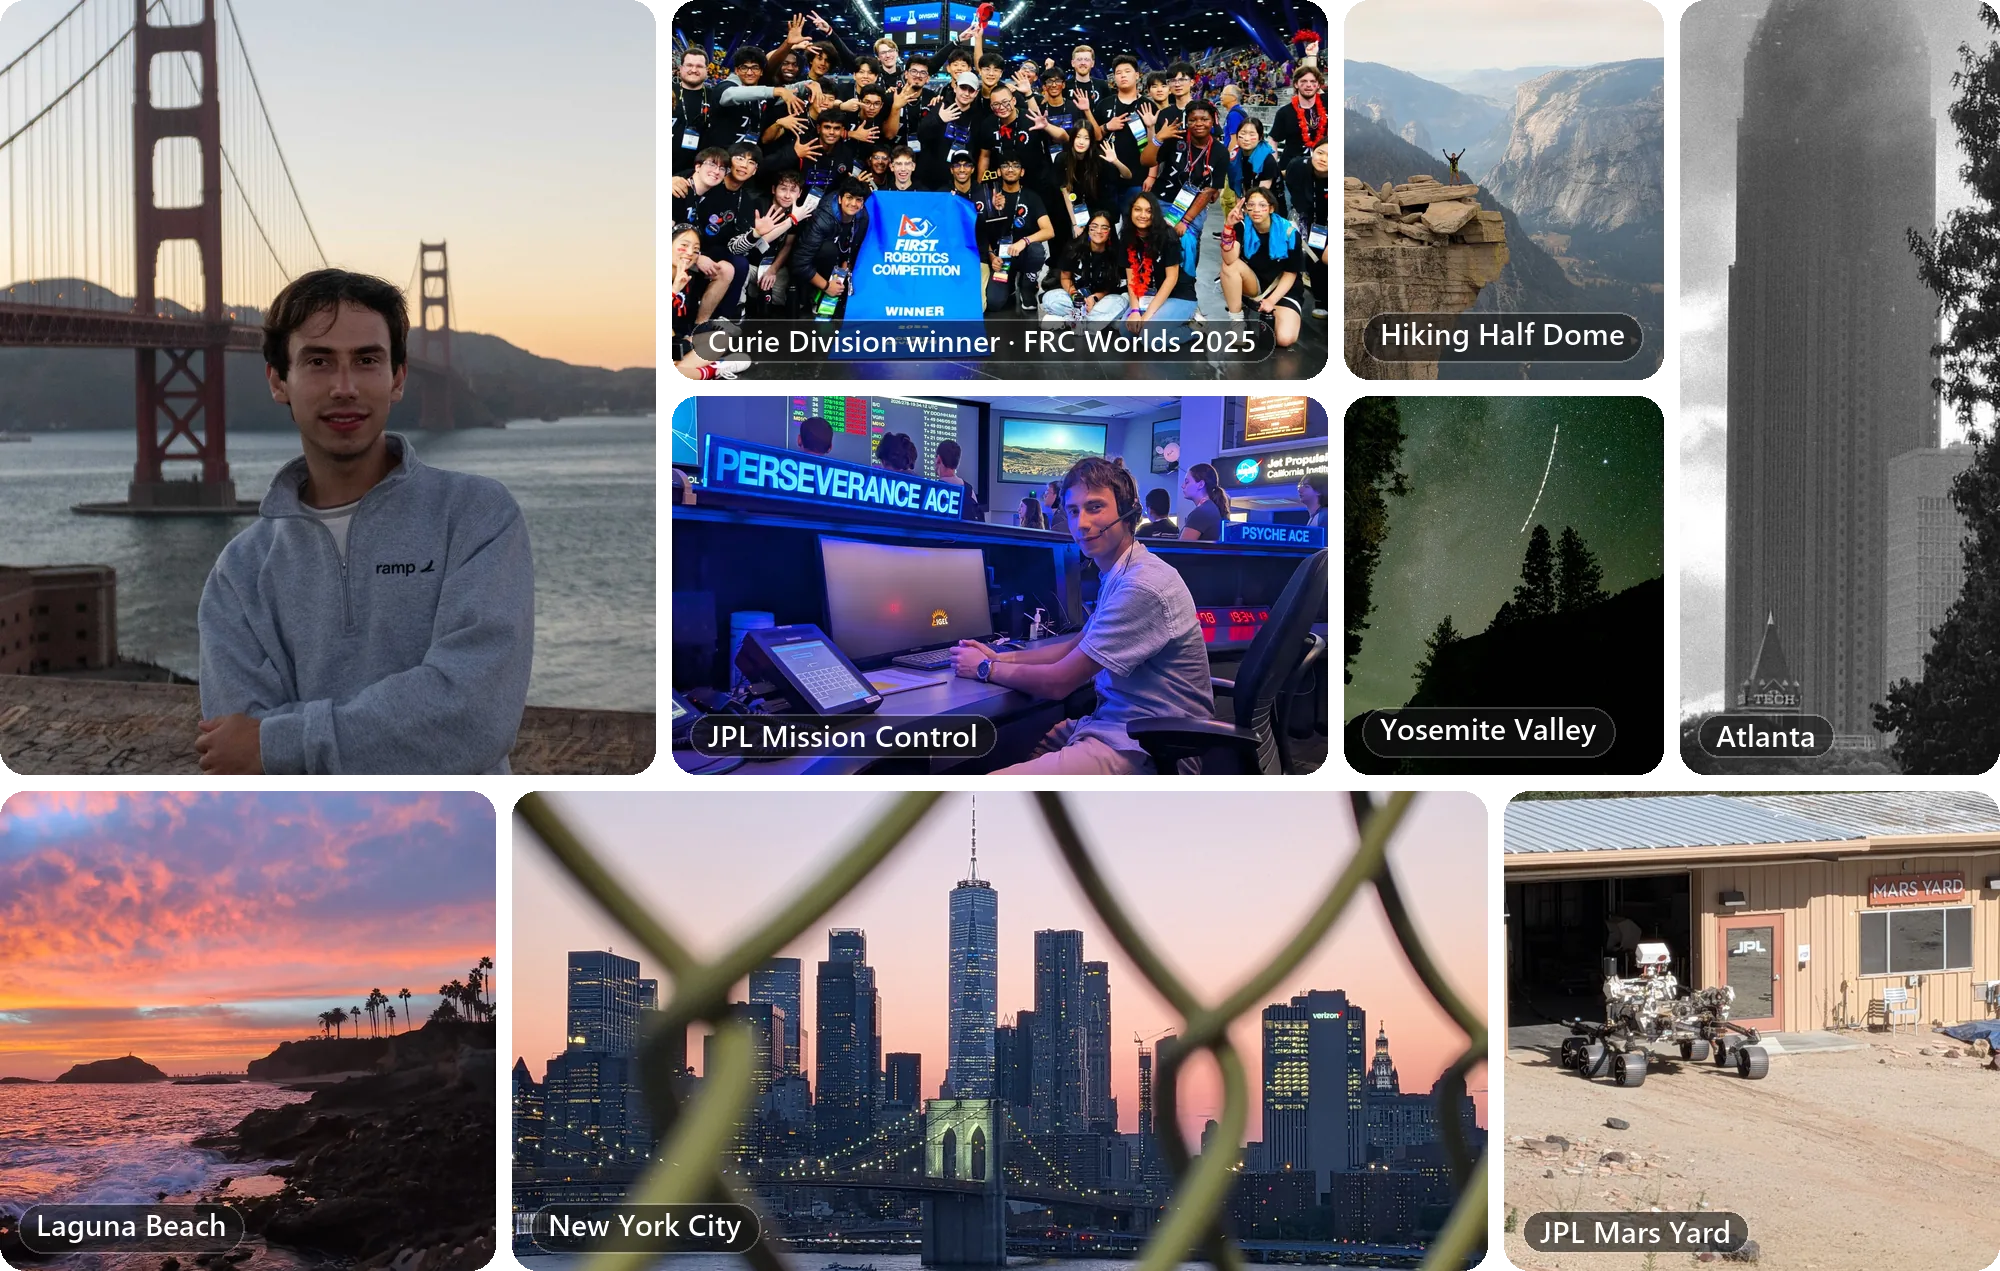
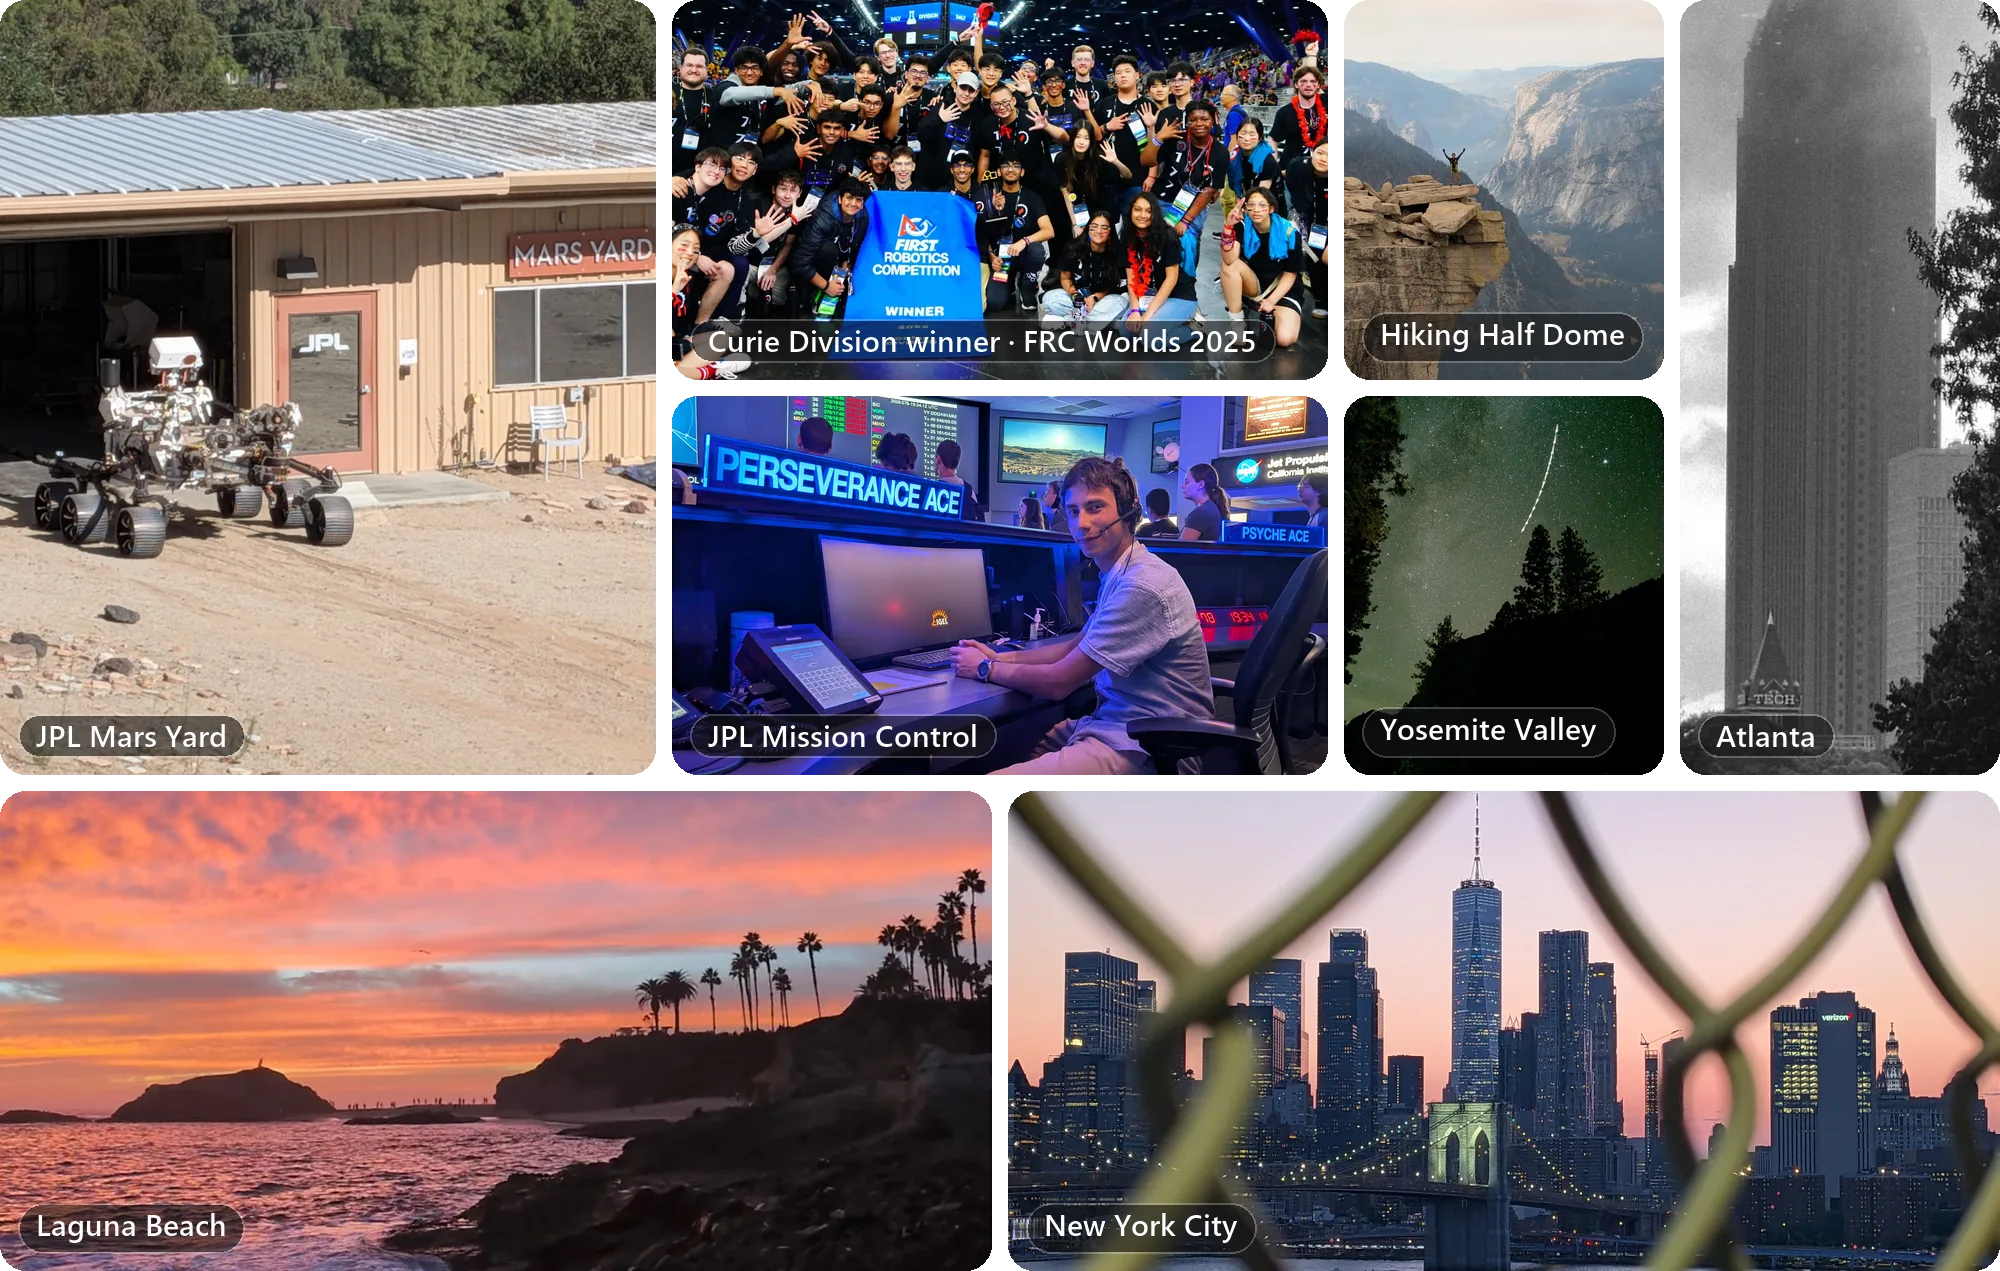
- Replace the Golden Gate photo in the collage with the Mars Yard

diff --git a/README.md b/README.md
@@ -1,6 +1,6 @@
 <div align="center">
 
-<img src="assets/collage.webp" width="100%" alt="Photo collage: Joseph at the Golden Gate Bridge, FRC 1771 after winning the Curie Division at the 2025 FIRST Championship, Joseph at the Perseverance ACE console in JPL's mission control, hiking Half Dome, Yosemite Valley at night, the Atlanta skyline, a Laguna Beach sunset, the New York City skyline, and a rover in JPL's Mars Yard">
+<img src="assets/collage.webp" width="100%" alt="Photo collage: a rover in JPL's Mars Yard, FRC 1771 after winning the Curie Division at the 2025 FIRST Championship, Joseph at the Perseverance ACE console in JPL's mission control, hiking Half Dome, Yosemite Valley at night, the Atlanta skyline, a Laguna Beach sunset, and the New York City skyline">
 
 # Joseph Farkas
 
